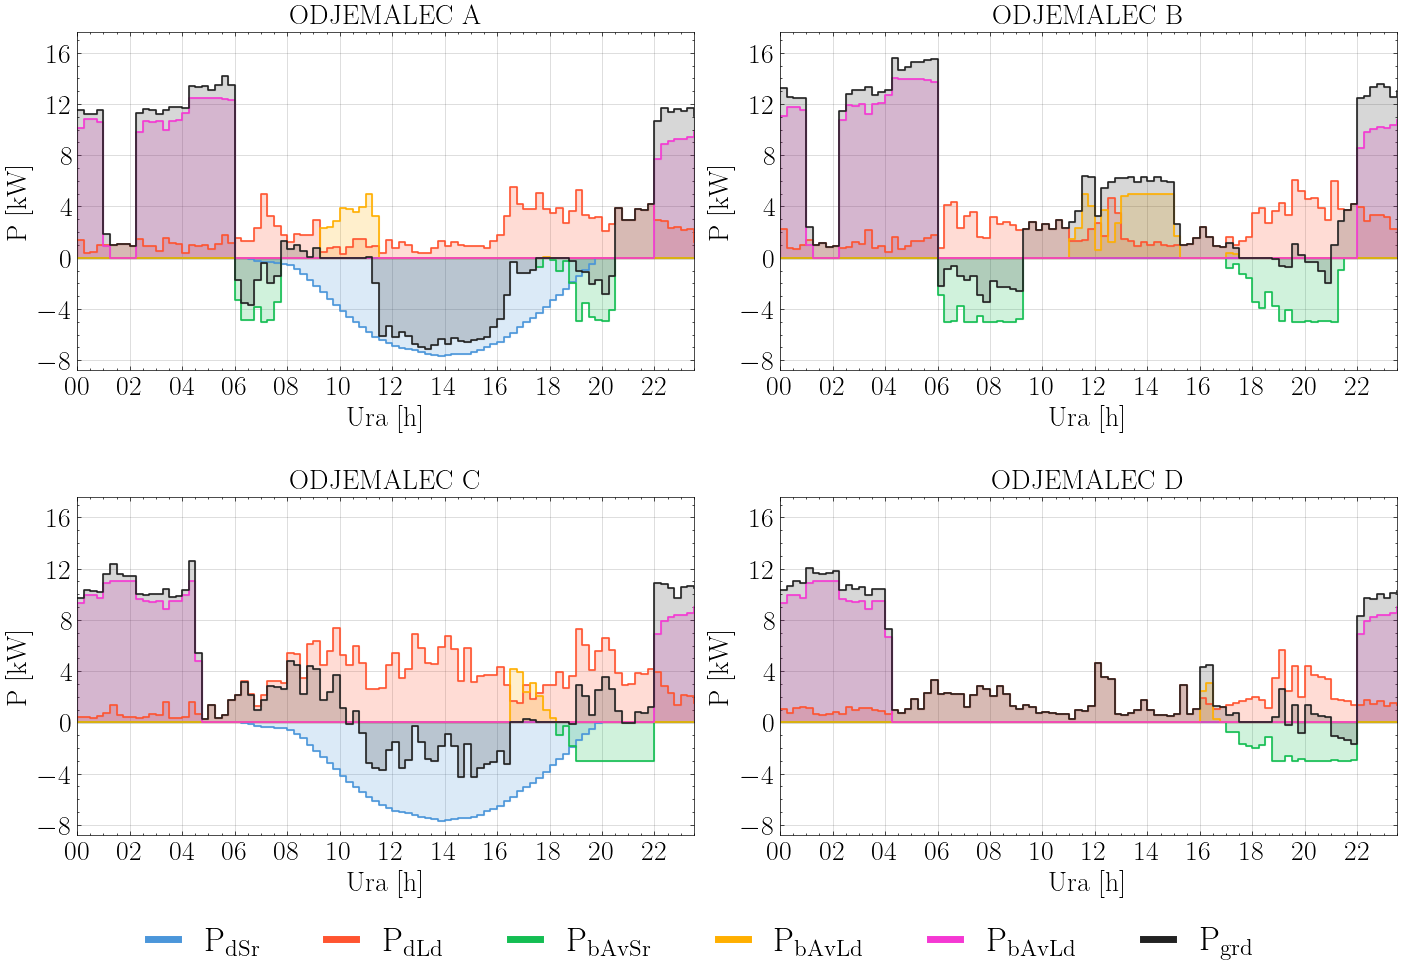
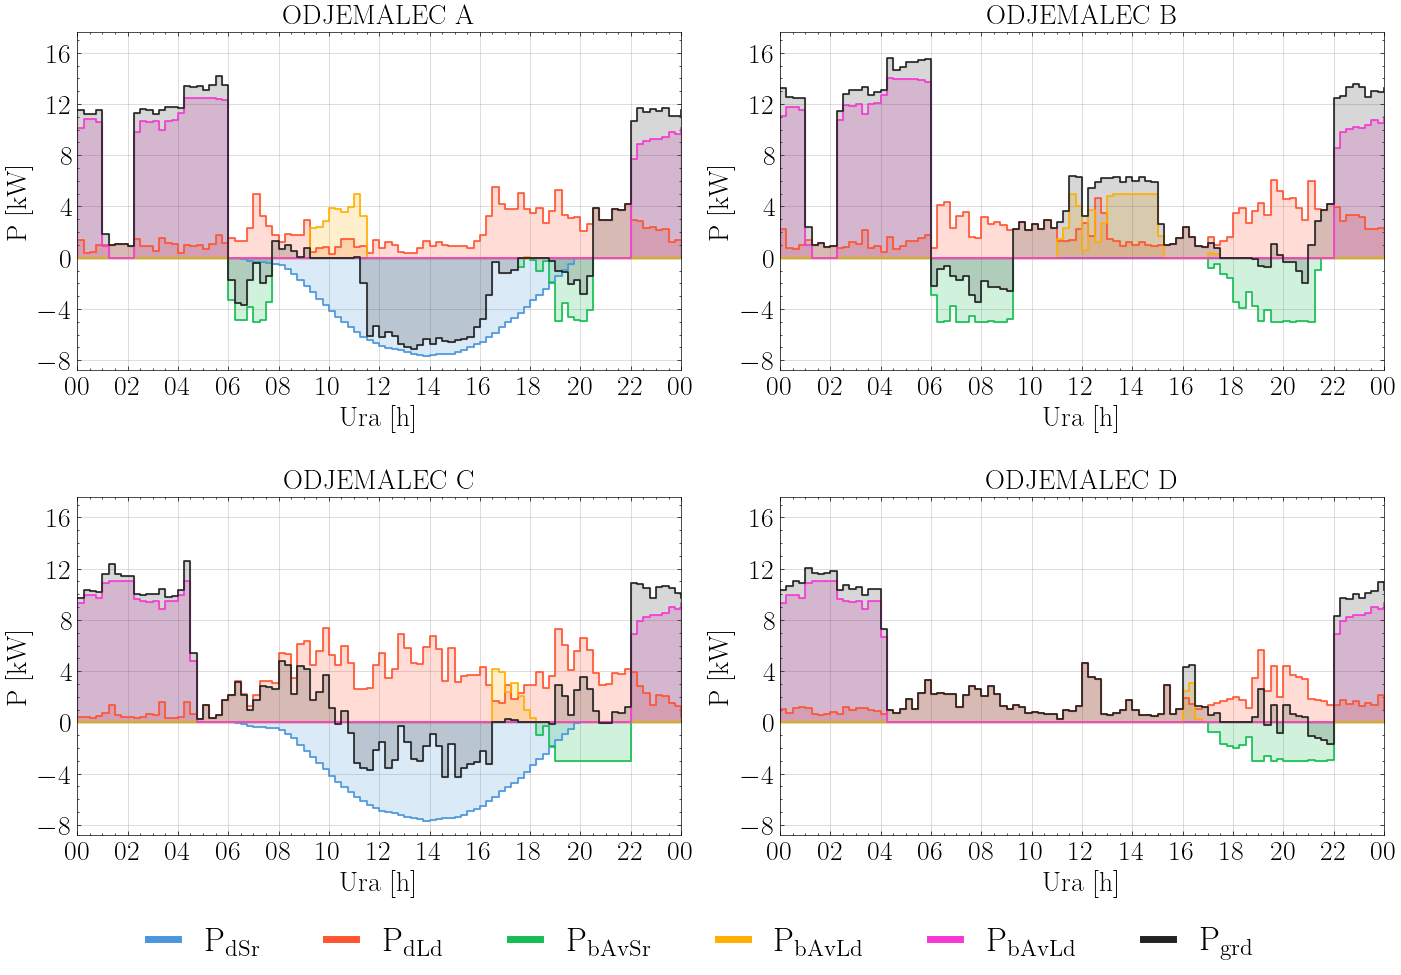
s

diff --git a/SimulatorUser/ExportData/dd.py b/SimulatorUser/ExportData/dd.py
@@ -22,7 +22,7 @@ def readUserPowerData(FileDirecotoryUserData, TestNumber, DatetTimeTest,UserNumb
     wb = load_workbook(filename = FolderPath)
     xlsxPowerMeasurments = wb["PowerMeausurments"]
 
-    asv=97
+    asv=99
 
     row=36
     Pin=[0]*asv
@@ -428,8 +428,8 @@ SelectedUser=[1,2,3,4]
 FileDirecotory="./"
 DateTime="01/02/2022 00:30"
 
-for i in range (1,2):
-    TestNumber=3030
+for i in range (1,4):
+    TestNumber=12+i
     drawingPowerGraph4Users(FileDirecotory, TestNumber, DateTime,SelectedUser)
     drawingPowerSystemGraph(FileDirecotory, TestNumber, DateTime,SelectedUser)
     drawingSOCGraaph(FileDirecotory, TestNumber, DateTime,SelectedUser)
